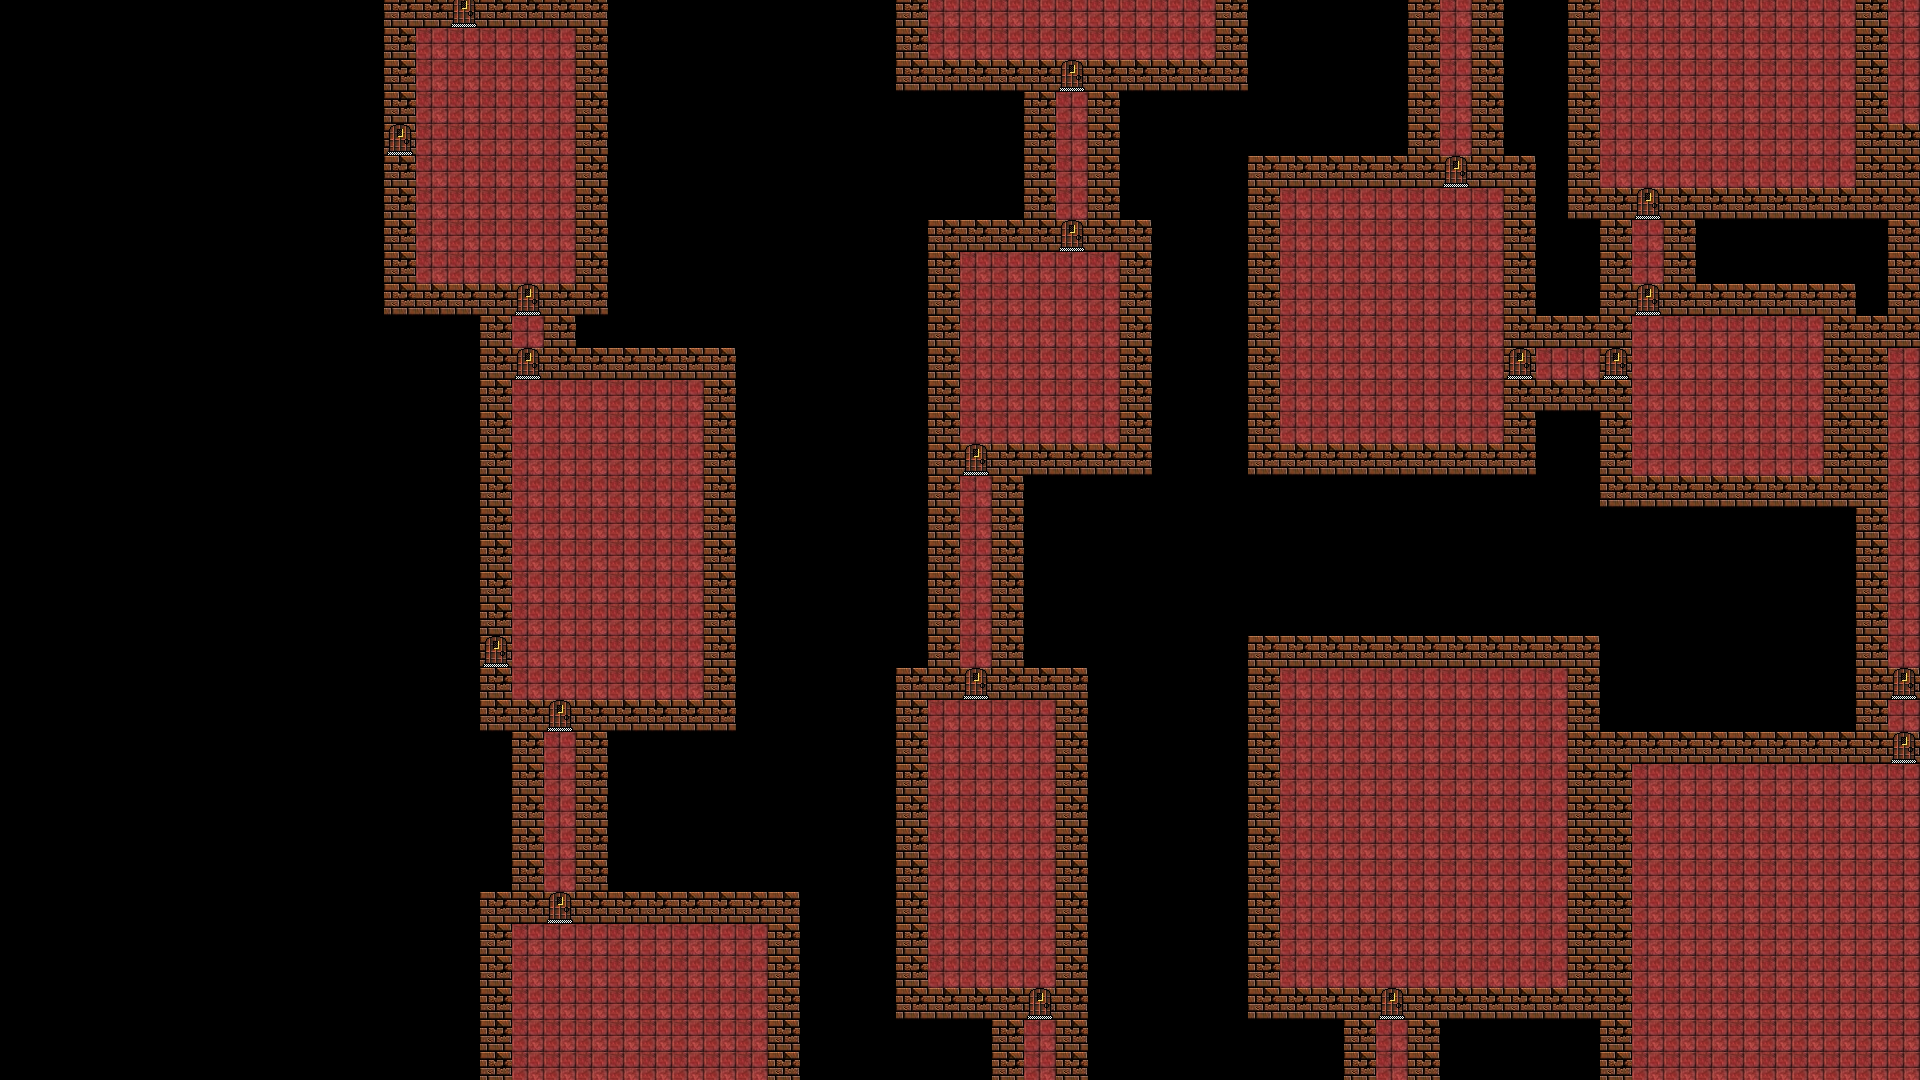
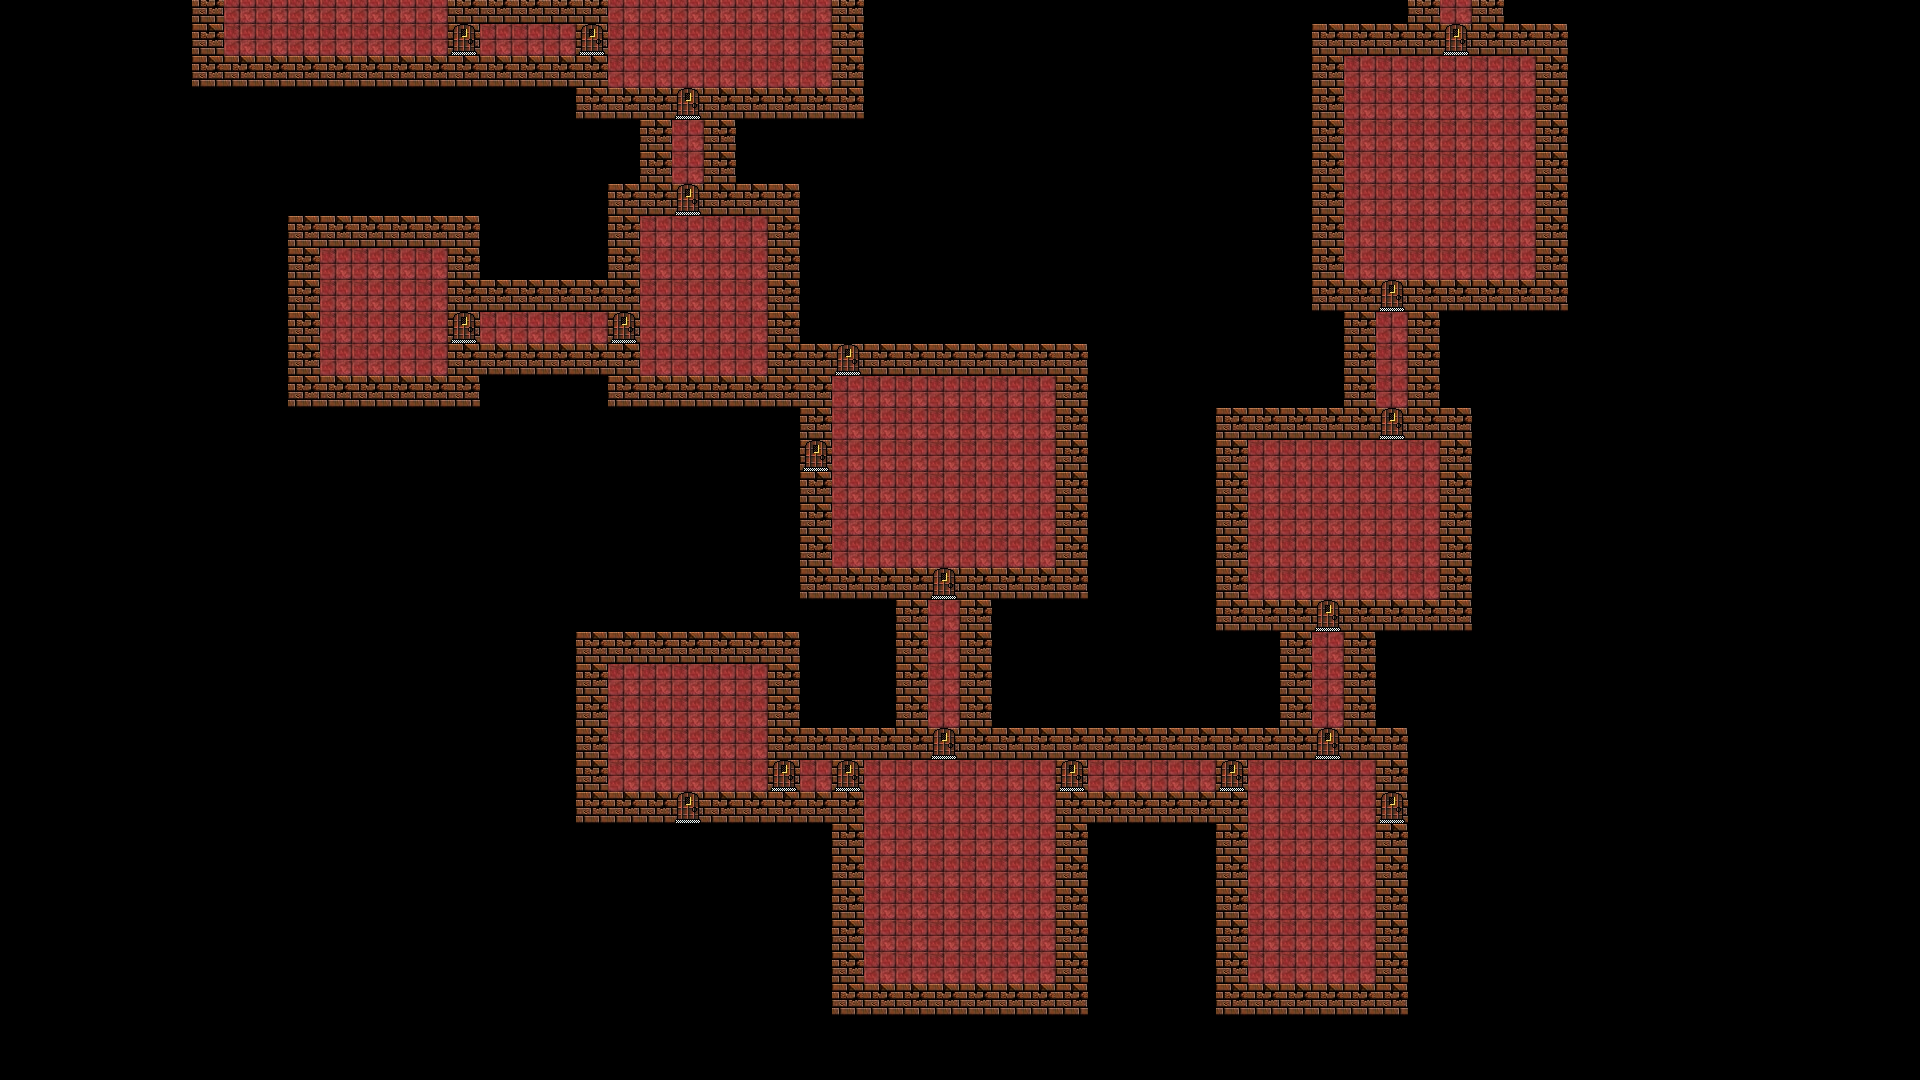
Tweaked the algorithm

diff --git a/axrog.c b/axrog.c
@@ -20,10 +20,10 @@
 
 #define SIDEBAR_WIDTH   0
 
-#define ROOM_ATTEMPTS           10
-#define ROOM_BRANCH_ATTEMPTS    10
-#define ROOM_SIZE()       (rand() % 7 + 4)
-#define CORRIDOR_LENGTH() (rand() % 5 + 2)
+#define ROOM_ATTEMPTS           200
+#define ROOM_BRANCH_ATTEMPTS    200
+#define ROOM_SIZE()       (rand() % 4 + 4)
+#define CORRIDOR_LENGTH() (rand() % 4 + 2)
 
 typedef enum {
     FLOOR = 0,
@@ -354,6 +354,7 @@ map_add_corridor(Room *r, Direction d) {
 static Room*
 map_add_room(SDL_Rect r, Corridor *c, Direction entered_from) {
     int x, y;
+    int i, e;
     Direction d;
     Room *rm;
     
@@ -377,9 +378,11 @@ map_add_room(SDL_Rect r, Corridor *c, Direction entered_from) {
         for (x = r.x; x < r.x + r.w; ++x)
             tiles[x][y].base = FLOOR;
 
-    for (d = 0; d < LAST_DIRECTION; ++d) {
-        if (!rm->corridors[d])
-            rm->corridors[d] = map_add_corridor(rm, d);
+    for (i = 0; i < ROOM_BRANCH_ATTEMPTS; ++i) {
+        d = rand() % LAST_DIRECTION;
+        if (rm->corridors[d])
+            continue;
+        rm->corridors[d] = map_add_corridor(rm, d);
     }
 
     return rm;
